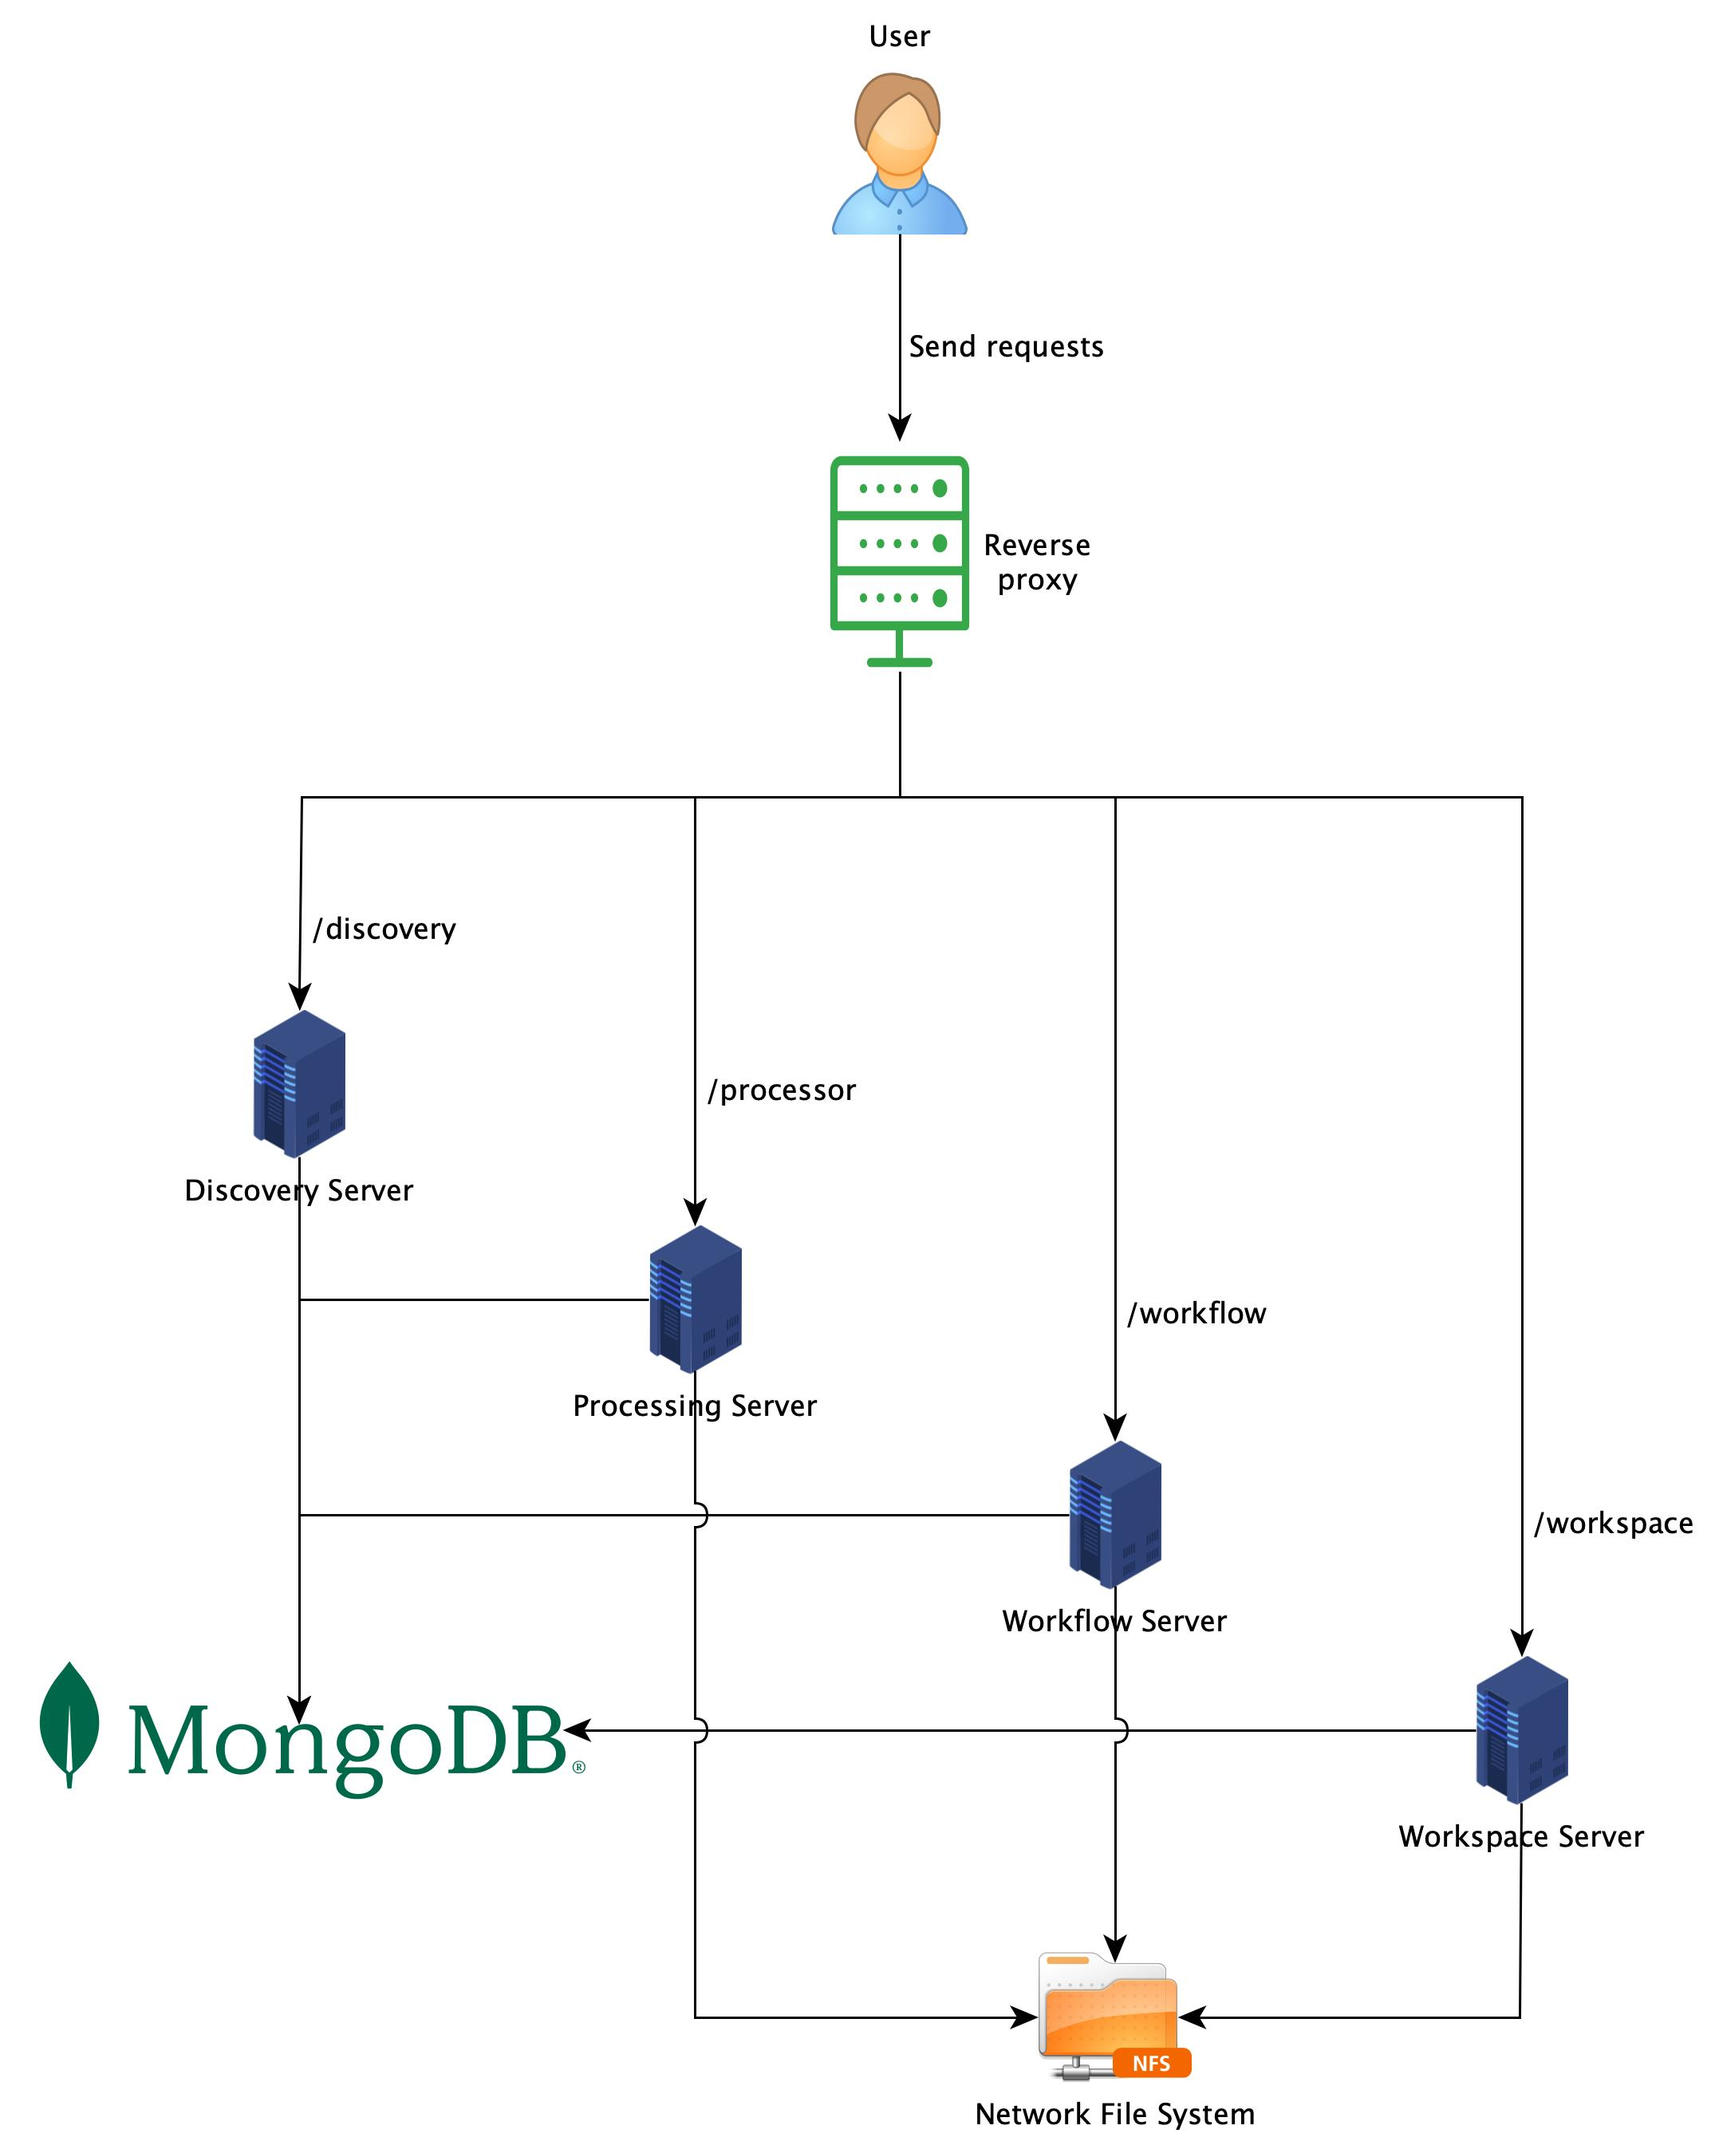
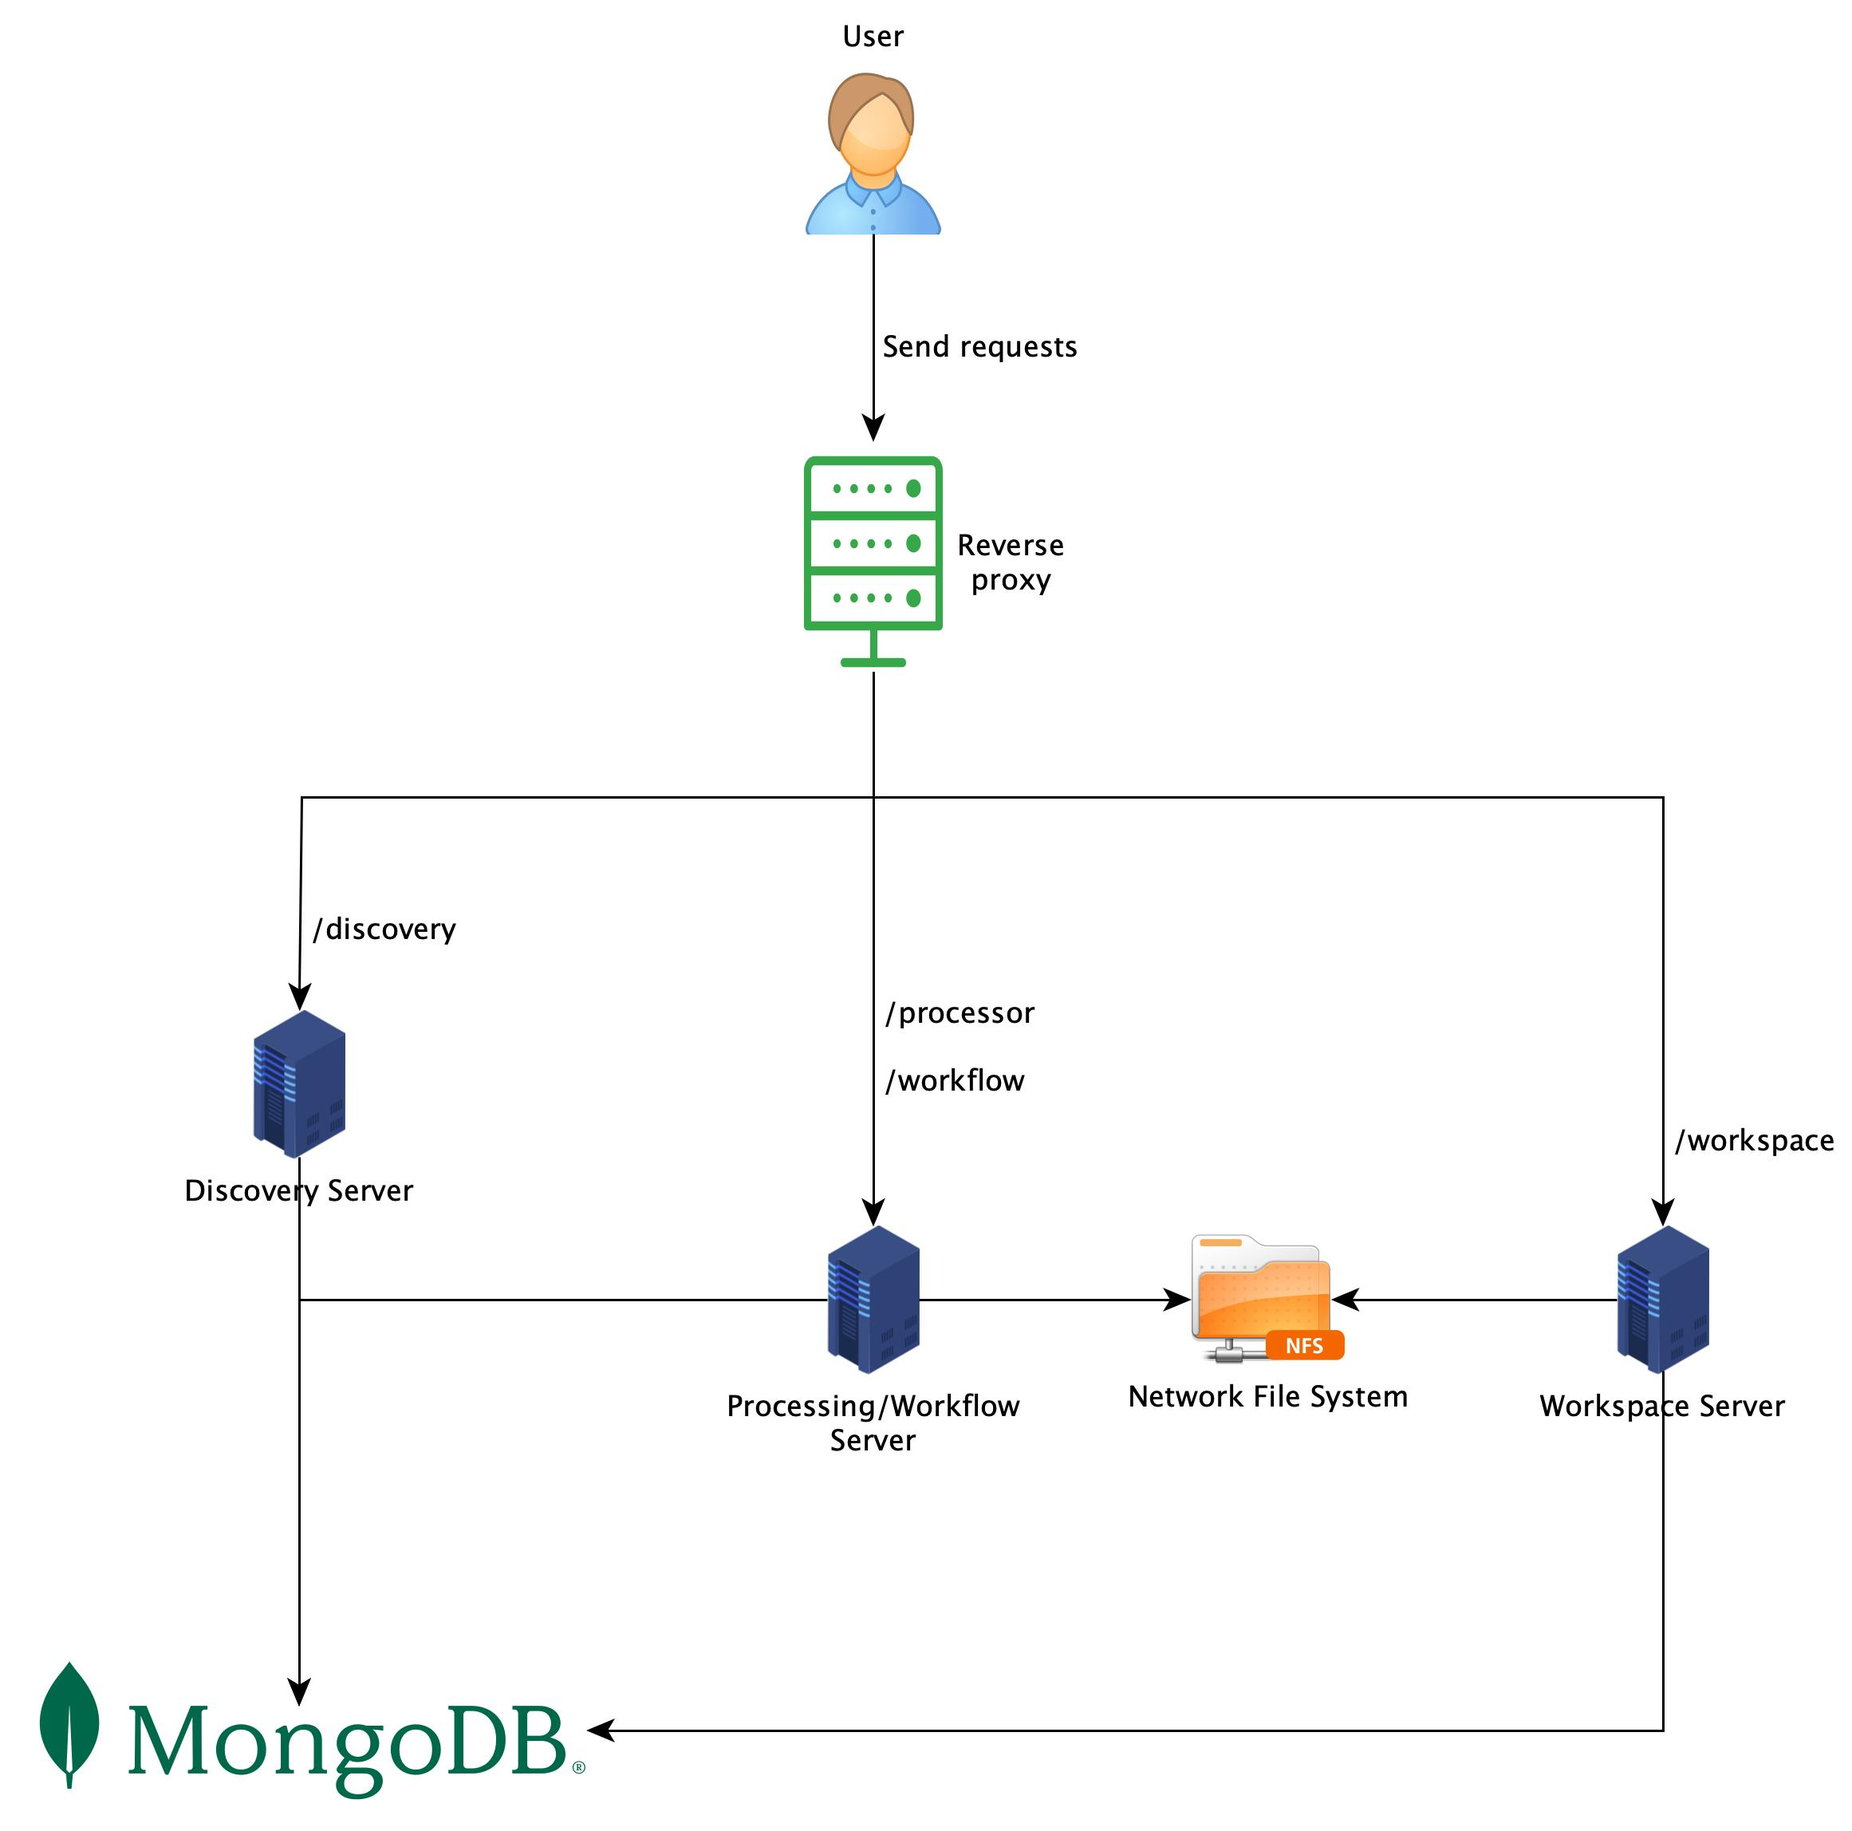
Merge Processing and Workflow server.

diff --git a/web_api.md b/web_api.md
@@ -52,7 +52,7 @@ There are different ways to build a system which implements this Web API. In thi
 architecture, starting from the simplest setup. The implementers do not have to strictly follow one of them, but free to
 choose the approach which fits their situation best.
 
-### Centralized approach
+### Centralized System Architecture
 
 The simplest way is having everything implemented and installed in one server, as shown in Figure 1. In this case, the
 Web API Server implements all endpoints from this specification. On the same machine, there are also all processors and
@@ -73,30 +73,39 @@ but other kind of storage will work fine as well.
 The Web API Server requires access to the file system so that it can manage the workspace. In this simple setup, the
 file system can just be the local file system on the machine, where the Web API Server is deployed.
 
-### Distributed Web API Server
+### Separate the Web API Server
 
 Instead of implementing all endpoints of the specification in one server, it might make sense to separate them into many
-servers. The example in Figure 2 shows 4 servers, each of them is responsible for a section in the Web API
-specification. In this case, all processors are installed only in the Processing Server, and Nextflow is installed only
-in the Workflow Server. There is a reverse proxy sitting in front of these 4 servers, which handles all requests from
-users and routes them to the responsible server.
+servers. If so, a reverse proxy should be deployed in front of these servers. It handles all requests from users and
+routes them to the responsible server. Figure 2 shows this setup. There are three servers, which are responsible for
+different sections in the Web API specification, as they are named. In this case, all processors and Nextflow are
+installed only in the Processing/Workflow Server. A workflow is basically a series of processors connecting to each
+other. Therefore, it is better to have the `Processing` and `Workflow` part implemented in the same server. Otherwise,
+we need to install all processors on the Workflow Server as well.
 
 <figure>
   <img src="images/web-api-partly-distributed.jpg" alt="Different servers implement different parts of the Web API"/>
   <figcaption align="center">
-    <b>Fig. 2:</b> The Web API specification is implemented by many servers, each of them is responsible for a corresponding section, as they are named.
+    <b>Fig. 2:</b> The Web API specification is implemented by many servers, each of them is responsible for different sets of endpoints, as they are named.
   </figcaption>
 </figure>
 
-The Processing, Workflow, and Workspace server need to access to workspaces created from users' requests. Instead of
+The Processing/Workflow and Workspace server need access to workspaces created from users' requests. Instead of
 moving the workspaces between the servers, it is more efficient to set up a Network File System (NFS) and share the
 access among them. The Discovery server, on the other hand, has nothing to do with workspaces. Therefore, it only needs
 access to the database.
 
 By separating the responsibility, one can easily customize a server to fit its need. For example, the Discovery server
-does not need as many resources as the Processing and Workflow server. It is also possible to scale out a type of server
-in case it is heavily used. Last but not least, each server can be developed independently, and a failure of a server
-does not lead to the failure of the whole system.
+does not need as many resources as the Processing/Workflow server. It is also possible to scale out a type of server
+in case it is heavily used. This setup is also enhance security since we can restrict access to all components and only
+expose the reverse proxy to the public network. Last but not least, each component can be developed independently, and a
+failure of one does not lead to the failure of the whole system.
+
+### Distributed System Architecture
+
+In the previous approach, all processors are installed on the Processing/Workflow server, either natively or via Docker.
+We can take one step further by having each processor running on a different machine and communicate with them via
+their [REST API](#rest-api-for-processors), as illustrated in Figure 3.
 
 ## REST API for Processors
 
